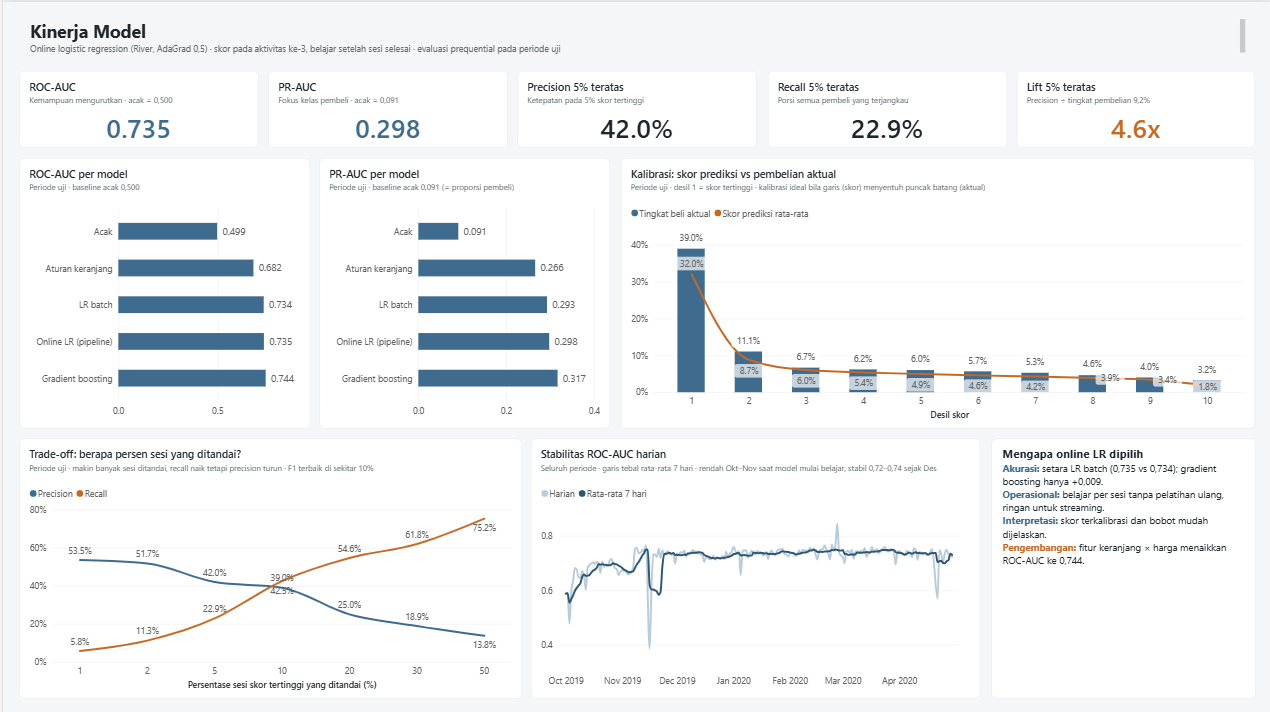
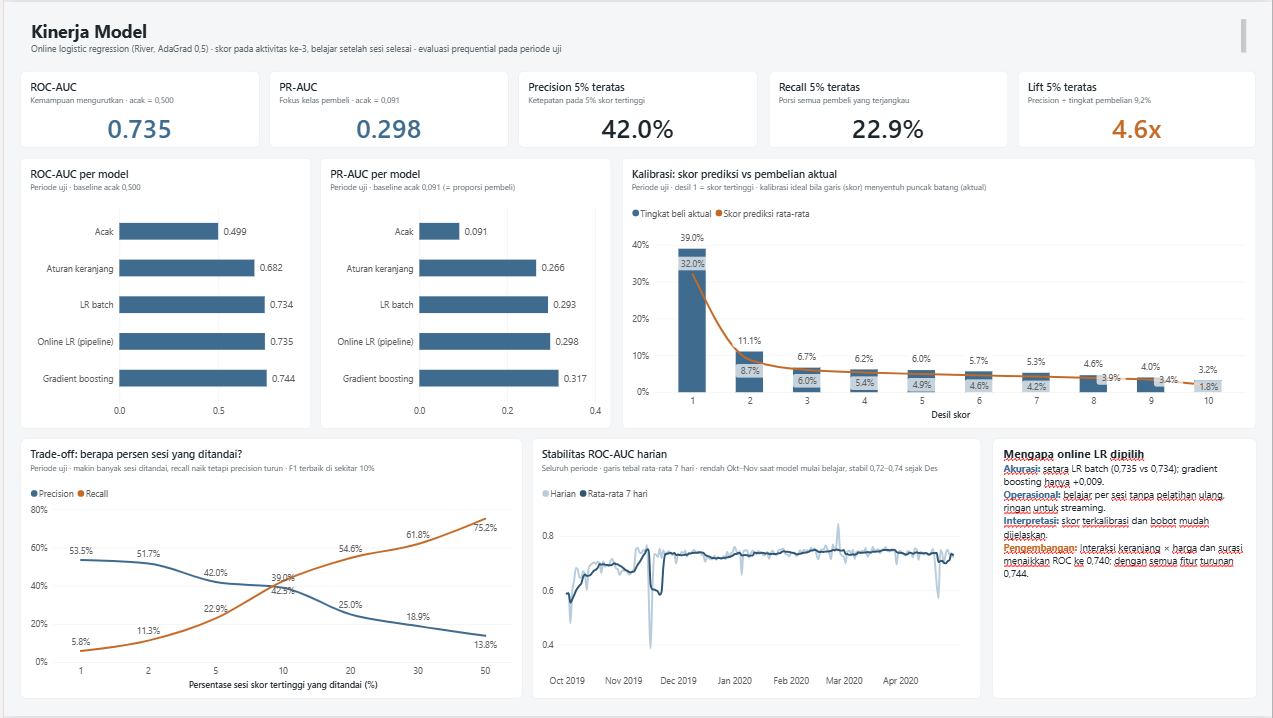
fix: correct interaction feature claim and refresh screenshot

diff --git a/README.md b/README.md
@@ -81,8 +81,8 @@ Full 7-month run, re-computed from the HDFS lake. Test period: 26 Feb to 30 Apr 
   when about 10% of sessions are flagged (`results/thresholds.csv`).
 - The simple cart rule is a strong baseline when about 11% of sessions are flagged; the model adds
   value by ranking within that group.
-- The ceiling comes from the features, not the model: logistic regression with interaction
-  features reaches the same ROC-AUC as gradient boosting (0.744).
+- The ceiling comes from the features, not the model: logistic regression with all derived
+  features (including cart interactions) reaches the same ROC-AUC as gradient boosting (0.744).
 - Scores are well calibrated (ECE 0.017, `results/calibration.csv`).
 - Predicting at the third event is the best trade-off: waiting until the fifth event raises ROC-AUC
   only to 0.746, while the share of buyer sessions that can still be reached falls from 58% to 34%
